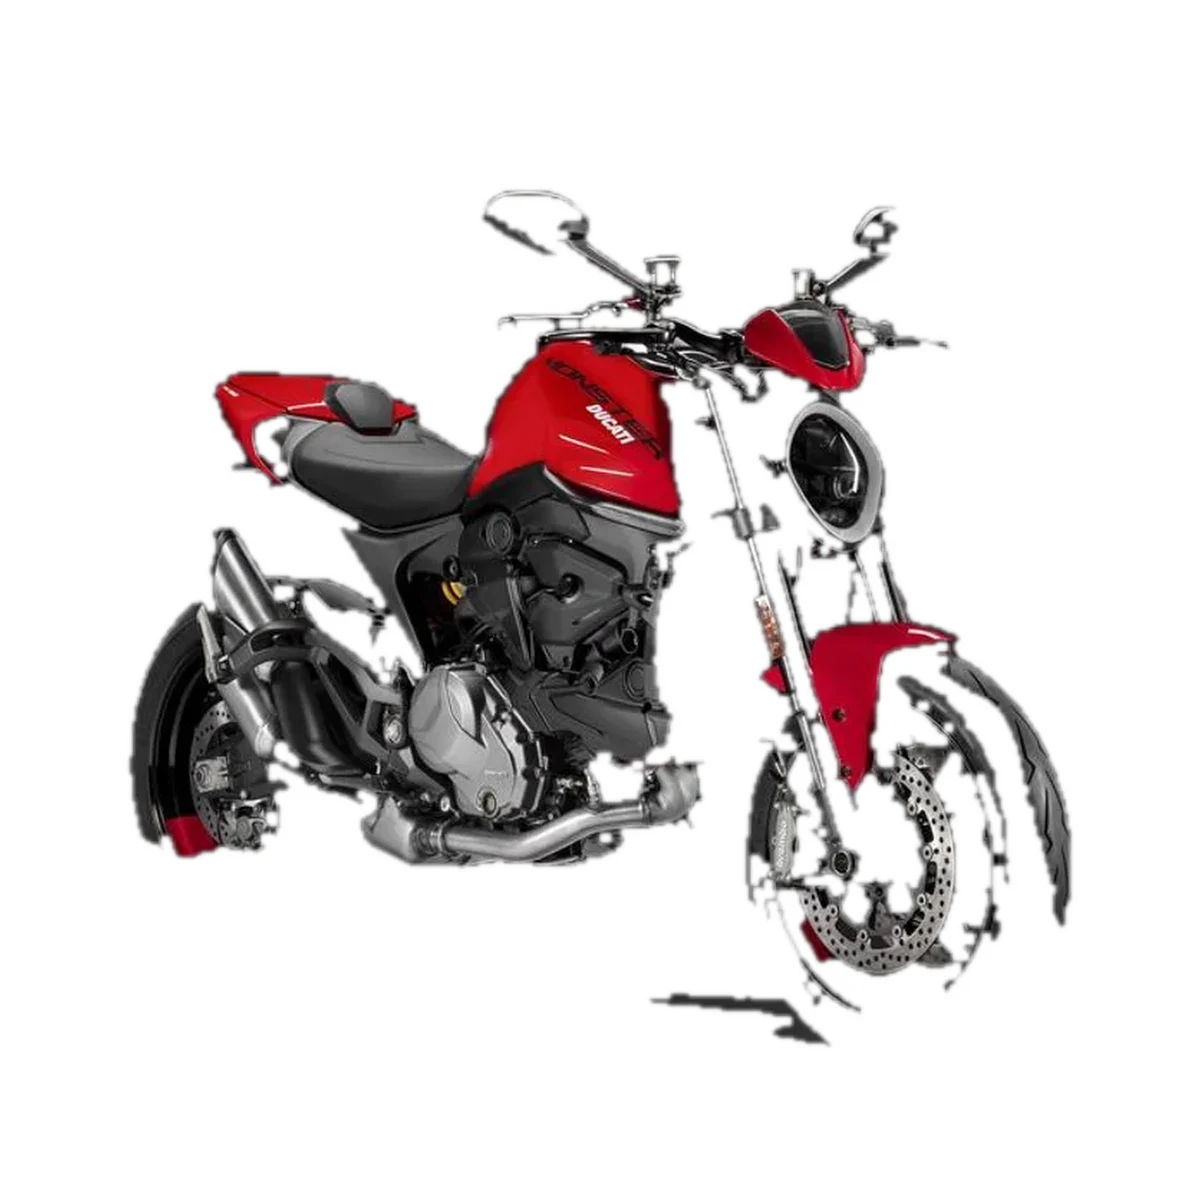
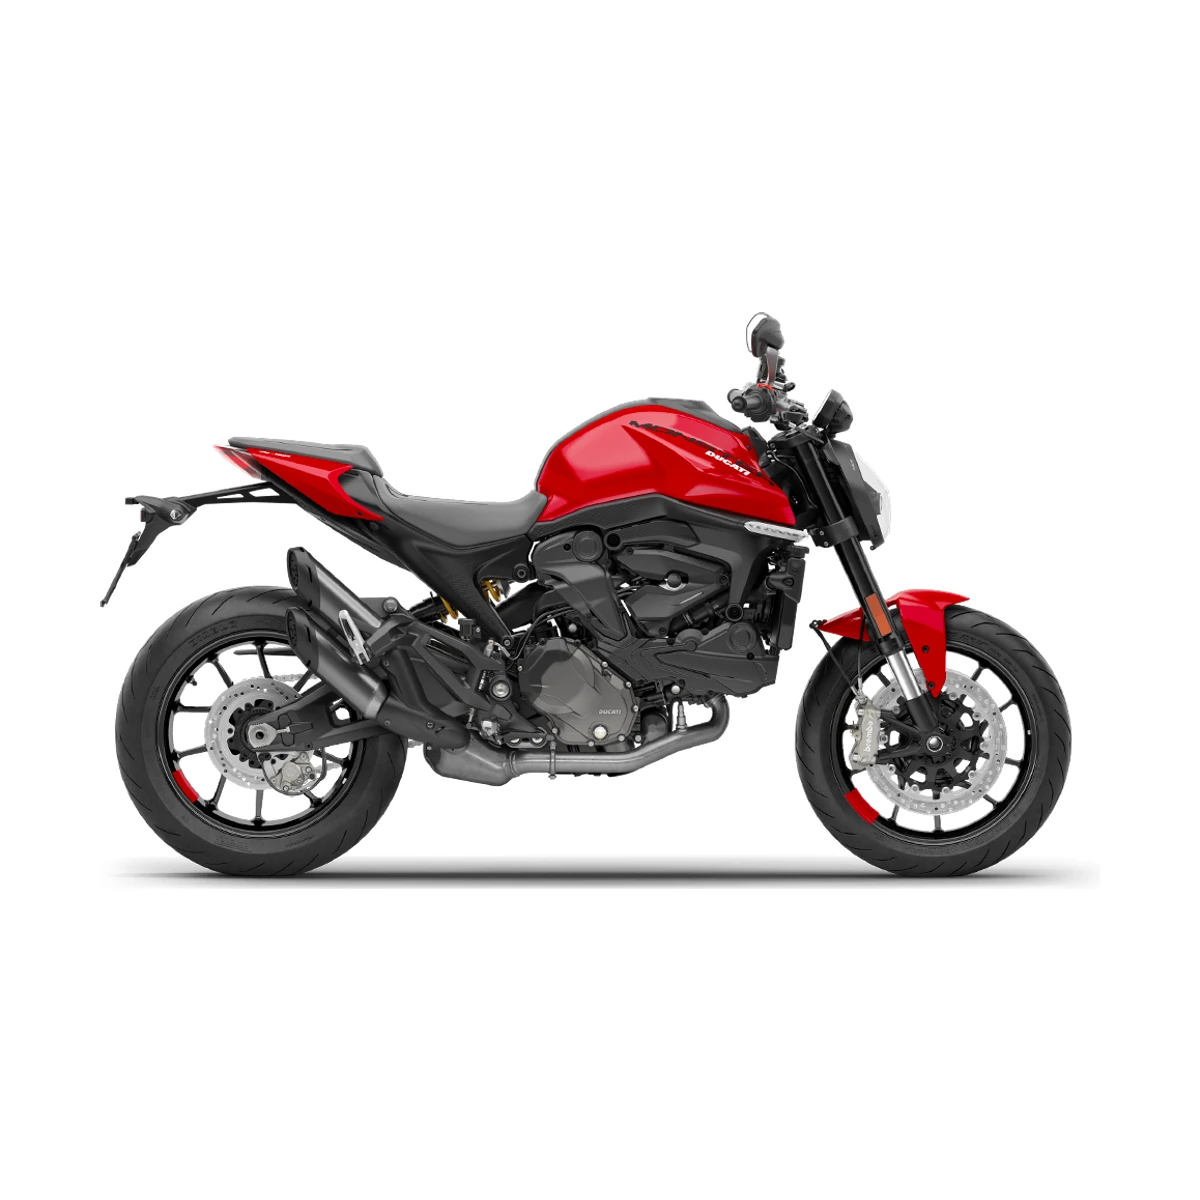
Fix broken Ducati catalog card imagery

Changed region(s): [[0.0925, 0.1542, 0.8942, 0.8942]]

diff --git a/lib/media.ts b/lib/media.ts
@@ -705,13 +705,13 @@ export const entityMedia: EntityMedia[] = [
   },
   {
     id:"ducati-monster-937-plus-editorial", entityType:"motorcycle", entityId:"ducati-monster-937-plus", role:"primary",
-    src:"/media/motorcycles/ducati-monster-937-plus.webp", sourceImageUrl:"https://img2.stcrm.it/images/23721531/HOR_STD/1000x/my21-ducati-monster-plus-1-uc214632-mid.jpg", alt:"Ducati Monster 937 Plus naked motorcycle in studio view", width:1200, height:1200,
-    rightsStatus:"external-reference", rightsHolder:"Moto.it", sourceLabel:"Editorial product image · Ducati Monster Plus", sourceUrl:"https://www.moto.it/listino/ducati/monster-937/monster-937-plus-2021/dQ0yxQ", lastChecked:"2026-09-08"
+    src:"/media/motorcycles/ducati-monster-937-plus.webp", sourceImageUrl: "https://images.ctfassets.net/x7j9qwvpvr5s/6pN73T6u1I1qaq8cizP7qV/b71f8207bba199bff55afb8198559993/Monster-937-Rd-MY22-Model-Preview-1050x650-v06.png", alt:"Ducati Monster 937 Plus naked motorcycle in studio view", width:1200, height:1200,
+    rightsStatus:"external-reference", rightsHolder: "Ducati", sourceLabel: "Manufacturer-hosted product image · Ducati Monster 937", sourceUrl: "https://www.ducati.com/br/pt/motos/monster/monster-937", lastChecked: "2026-09-24"
   },
   {
     id:"ducati-scrambler-nightshift-editorial", entityType:"motorcycle", entityId:"ducati-scrambler-nightshift", role:"primary",
-    src:"/media/motorcycles/ducati-scrambler-nightshift.webp", sourceImageUrl:"https://bxrepsol.s3.eu-west-1.amazonaws.com/static/2023/08/01042843/Foto-8-Ducati-Scrambler-Nighshift-1024x819.jpg", alt:"Ducati Scrambler Nightshift motorcycle in studio view", width:1200, height:1200,
-    rightsStatus:"external-reference", rightsHolder:"Box Repsol", sourceLabel:"Editorial product image · Ducati Scrambler Nightshift", sourceUrl:"https://www.boxrepsol.com/es/vive-tu-moto/motos-scrambler-cuales-son-y-sus-caracteristicas-principales/", lastChecked:"2026-09-08"
+    src:"/media/motorcycles/ducati-scrambler-nightshift.webp", sourceImageUrl: "https://www.ducatiomaha.com/cdn/shop/files/Scrambler-Ducati_Nightshift-Emerald.png?v=1759436541", alt:"Ducati Scrambler Nightshift motorcycle in studio view", width:1200, height:1200,
+    rightsStatus:"external-reference", rightsHolder: "Ducati", sourceLabel: "Exact product image · Ducati Omaha dealer listing · Scrambler Nightshift", sourceUrl: "https://www.ducatiomaha.com/products/2026-ducati-scrambler-nightshift-emerald-green", lastChecked: "2026-09-24"
   },
   {
     id:"husqvarna-svartpilen-401-editorial", entityType:"motorcycle", entityId:"husqvarna-svartpilen-401", role:"primary",
